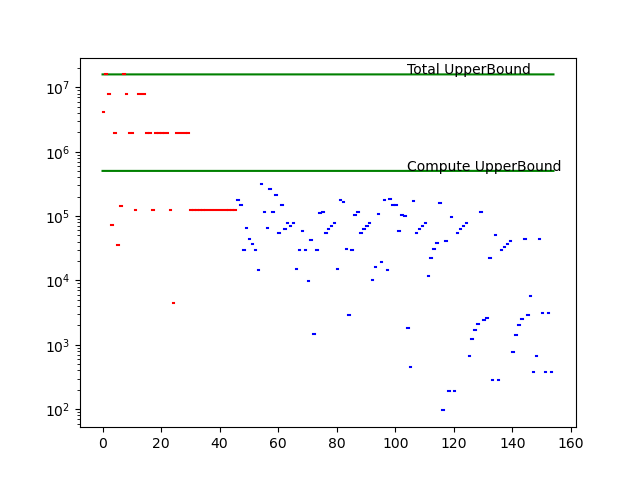
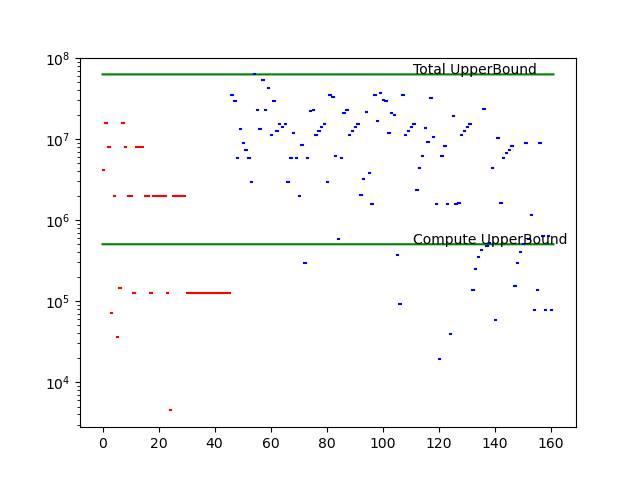
fix the problem of unbearably long simulation time under narrow bandwidth

diff --git a/mnsim_noc/Router/time_slice_router.py b/mnsim_noc/Router/time_slice_router.py
@@ -18,6 +18,7 @@ class TimeSliceRouter(BaseRouter):
         super().__init__()
         self.wire_state = None
         self.paths = []
+        self.refused = []
         # time_slice: span of a time_slice (ns)
         self.time_slice = time_slice
 
@@ -28,11 +29,13 @@ class TimeSliceRouter(BaseRouter):
             wire_state: dict()[wire_id->wire.state]
             clock_num: current clock_num in simulation
         Output:
-            routing results: paths
+            (routing results: paths, refused routing with backtime)
         """
         # All paths arranged
         # path format: (list[occupied_wire_id], (x, y, end_tile_id, length, layer_out))
         self.paths = []
+        # refused routing format: (start_tile_id, backtime)
+        self.refused = []
         # mark the occupation during routing
         self.wire_state = wire_state
         for start_tile_id, tile_data in transfer_data.items():
@@ -53,12 +56,15 @@ class TimeSliceRouter(BaseRouter):
             # Routing algorithm: first in x, then in y, last in x, choose the first possible path
             # Search for possible paths
             current_path = []
+            backtime = float("inf")
             for i in range(0, abs(step_x)+1):
                 current_position = start_tile_position
                 path_failed = False
+                backtime_tmp = 0
                 # go i steps in x
                 for j in range(1, i+1):
                     current_wire_id = "{}_{}_{}".format(current_position[0], current_position[1], direction_x)
+                    backtime_tmp = max(backtime_tmp, self.wire_state[current_wire_id])
                     if self.wire_state[current_wire_id] == 0:
                         current_path.append(current_wire_id)
                         current_position[0] += 1
@@ -67,10 +73,12 @@ class TimeSliceRouter(BaseRouter):
                         break
                 if path_failed:
                     current_path.clear()
+                    backtime = min(backtime, backtime_tmp)
                     continue
                 # go in y
                 for j in range(1, abs(step_y)+1):
                     current_wire_id = "{}_{}_{}".format(current_position[0], current_position[1], direction_y)
+                    backtime_tmp = max(backtime_tmp, self.wire_state[current_wire_id])
                     if self.wire_state[current_wire_id] == 0:
                         current_path.append(current_wire_id)
                         current_position[1] += 1
@@ -79,10 +87,12 @@ class TimeSliceRouter(BaseRouter):
                         break
                 if path_failed:
                     current_path.clear()
+                    backtime = min(backtime, backtime_tmp)
                     continue
                 # go abs(step_x)-i steps in x
                 for j in range(1, abs(step_x)-i+1):
                     current_wire_id = "{}_{}_{}".format(current_position[0], current_position[1], direction_x)
+                    backtime_tmp = max(backtime_tmp, self.wire_state[current_wire_id])
                     if self.wire_state[current_wire_id] == 0:
                         current_path.append(current_wire_id)
                         current_position[0] += 1
@@ -91,6 +101,7 @@ class TimeSliceRouter(BaseRouter):
                         break
                 if path_failed:
                     current_path.clear()
+                    backtime = min(backtime, backtime_tmp)
                     continue
                 break
             if current_path:
@@ -100,5 +111,6 @@ class TimeSliceRouter(BaseRouter):
                 for path_wire_id in current_path:
                     self.wire_state[path_wire_id] = 1
             else:
+                self.refused.append((start_tile_id, int(backtime)))
                 self.logger.info('(Rejected Routing) layer:'+str(data[4])+' time:'+str(clock_num*self.time_slice)+' start_tile:'+str(start_tile_id)+' end_tile:'+str(data[2]))
-        return self.paths
+        return self.paths, self.refused

diff --git a/mnsim_noc/Array/time_slice_array.py b/mnsim_noc/Array/time_slice_array.py
@@ -30,7 +30,7 @@ class TimeSliceArray(BaseArray):
     time_slice: span of a time_slice (ns)
     sim_config_path: hardware description
     '''
-    def __init__(self, tcg_mapping, time_slice, sim_config_path):
+    def __init__(self, tcg_mapping, time_slice, sim_config_path, inter_tile_bandwidth):
         super().__init__(tcg_mapping)
         # span of timeslice: ns
         self.time_slice = time_slice
@@ -38,7 +38,8 @@ class TimeSliceArray(BaseArray):
         tcg_config = cp.ConfigParser()
         tcg_config.read(sim_config_path, encoding='UTF-8')
         # bandwidth of the wire: Gbps
-        self.bandwidth = int(tcg_config.get('Tile level', 'Inter_Tile_Bandwidth'))
+        self.bandwidth = float(tcg_config.get('Tile level', 'Inter_Tile_Bandwidth'))
+        # self.bandwidth  = int(inter_tile_bandwidth)
         self.clock_num = 0
         self.tile_dict = dict()
         self.wire_dict = dict()
@@ -211,7 +212,7 @@ class TimeSliceArray(BaseArray):
     def set_wire_task(self, routing_result):
         # task format: (x, y, end_tile_id, length, layer, is_first, is_last)
         # path format: (list[occupied_wire_id], (x, y, end_tile_id, length, layer_out))
-        for path in routing_result:
+        for path in routing_result[0]:
             wire_list = path[0]
             path_data = path[1]
             wire_len = len(wire_list)
@@ -221,6 +222,8 @@ class TimeSliceArray(BaseArray):
                 is_first = (index == 0)
                 is_last = (index == wire_len - 1)
                 self.wire_dict[wire_id].set_wire_task(path_data + (is_first, is_last))
+        for refused in routing_result[1]:
+            self.tile_dict[refused[0]].set_back_time(refused[1])
 
     def update_tile(self):
         for wire_id, wire_data in self.wire_data_transferred.items():
@@ -240,7 +243,7 @@ class TimeSliceArray(BaseArray):
         tmp_timeslice_num = float("inf")
         for tile_id, tile in self.tile_dict.items():
             if not tile.is_transmitting and tile.output_list and tile.end_tiles:
-                tmp_timeslice_num = min(1, tmp_timeslice_num)
+                tmp_timeslice_num = min(max(1,tile.backtime), tmp_timeslice_num)
             if tile.computing_output:
                 tmp_timeslice_num = min(max(1,tile.state), tmp_timeslice_num)
         for wire_id, wire in self.wire_dict.items():

diff --git a/mnsim_noc/main.py b/mnsim_noc/main.py
@@ -46,7 +46,8 @@ def main():
 @click.option("-D", "--device", default=0,
               help="Determine hardware device for simulation, default: CPU")
 @click.option("--time_slice_span", "-TSS", default=1, help='span of the timeslice in simulation (ns), default: 1')
-def time_slice(quiet, nn, hardware_description, weights, device, time_slice_span):
+@click.option("--inter_tile_bandwidth", "-ITB", default=20, help='inter_tile_bandwidth (Gbps), default: 20')
+def time_slice(quiet, nn, hardware_description, weights, device, time_slice_span, inter_tile_bandwidth):
     # load cfg
     # with open(cfg_file, "r") as f:
     #     cfg = yaml.safe_load(f)
@@ -54,6 +55,7 @@ def time_slice(quiet, nn, hardware_description, weights, device, time_slice_span
     __TestInterface = TrainTestInterface(network_module=nn, dataset_module='MNSIM.Interface.cifar10', SimConfig_path=hardware_description, weights_file=weights, device=device)
     structure_file = __TestInterface.get_structure()
     TCG_mapping = TCG(structure_file, hardware_description, False)
-    array = TimeSliceArray(TCG_mapping, time_slice_span, hardware_description)
+    print('start NoC simulation')
+    array = TimeSliceArray(TCG_mapping, time_slice_span, hardware_description, inter_tile_bandwidth)
     # run the sim
     array.run()

diff --git a/mnsim_noc/Tile/time_slice_tile.py b/mnsim_noc/Tile/time_slice_tile.py
@@ -40,6 +40,8 @@ class TimeSliceTile(BaseTile):
         self.is_transmitting = False
         # data computed during the simulation
         self.computed_data = 0
+        # backtime for next transition
+        self.backtime = 0
 
     def update_input(self, inputs):
         # Update the input_list with new inputs
@@ -95,7 +97,7 @@ class TimeSliceTile(BaseTile):
     def get_output(self):
         # return the output to be transmitted through wires
         # outputs format: (x, y, end_tile_id, length, layer_out)
-        if self.output_list and self.current_end_tiles and not self.is_transmitting:
+        if self.output_list and self.current_end_tiles and not self.is_transmitting and self.backtime==0:
             output = self.output_list[0]
             return output[0], output[1], self.current_end_tiles[0], self.length, self.layer_out
 
@@ -105,3 +107,6 @@ class TimeSliceTile(BaseTile):
             return [round(self.computed_data * self.computing_time / self.data_length), self.computed_data, self.data_length, self.computing_time]
         else: 
             return []
+
+    def set_back_time(self, backtime):
+        self.backtime = backtime

diff --git a/mnsim_noc/Tile/pooling_time_slice_tile.py b/mnsim_noc/Tile/pooling_time_slice_tile.py
@@ -91,6 +91,9 @@ class PoolingTimeSliceTile(TimeSliceTile):
         # compute in the time slice
         if self.state > 0:
             self.state -= n
+        # update the backtime
+        if self.backtime > 0:
+            self.backtime -= n
         # if the tile just finished the computation
         if self.state == 0:
             if self.computing_output:

diff --git a/mnsim_noc/Tile/conv_time_slice_tile.py b/mnsim_noc/Tile/conv_time_slice_tile.py
@@ -91,6 +91,9 @@ class CONVTimeSliceTile(TimeSliceTile):
         # compute in the time slice
         if self.state > 0:
             self.state -= n
+        # update the backtime
+        if self.backtime > 0:
+            self.backtime -= n
         # if the tile just finished the computation
         if self.state == 0:
             if self.computing_output:

diff --git a/mnsim_noc/Tile/fc_time_slice_tile.py b/mnsim_noc/Tile/fc_time_slice_tile.py
@@ -59,6 +59,9 @@ class FCTimeSliceTile(TimeSliceTile):
         # compute in the time slice
         if self.state > 0:
             self.state -= n
+        # update the backtime
+        if self.backtime > 0:
+            self.backtime -= n
         # if the tile just finished the computation
         if self.state == 0:
             if self.computing_output:
